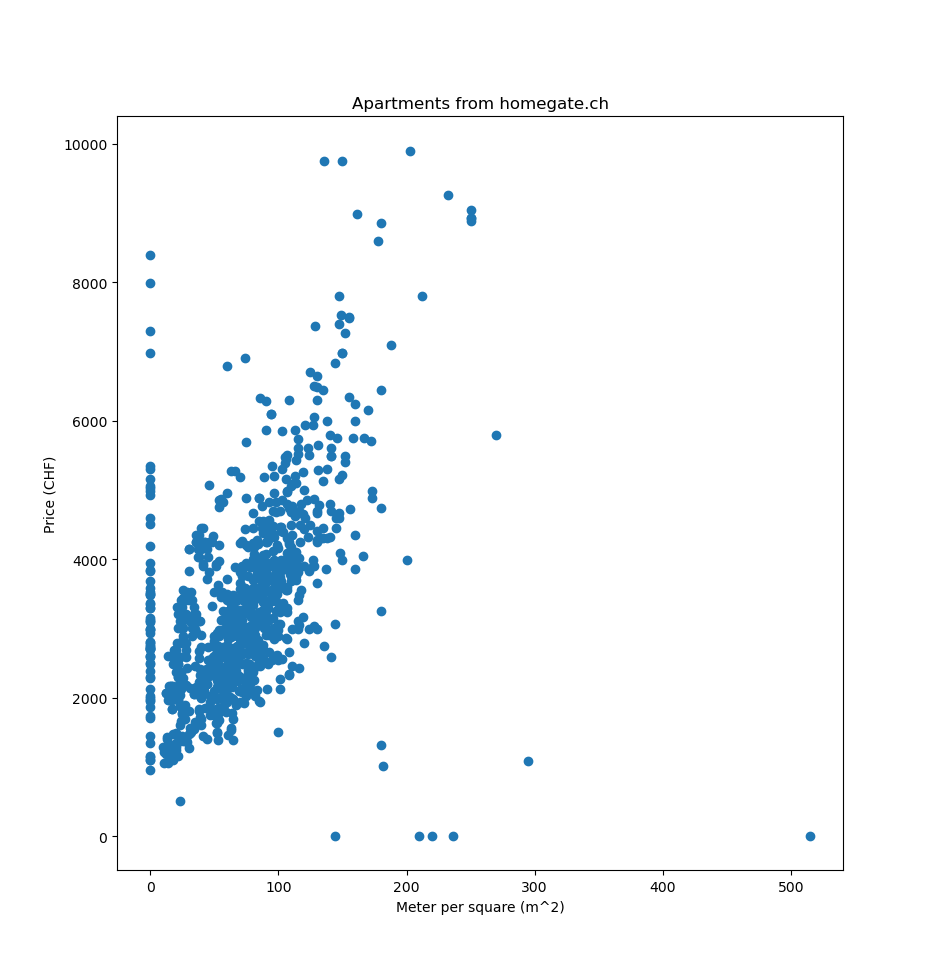
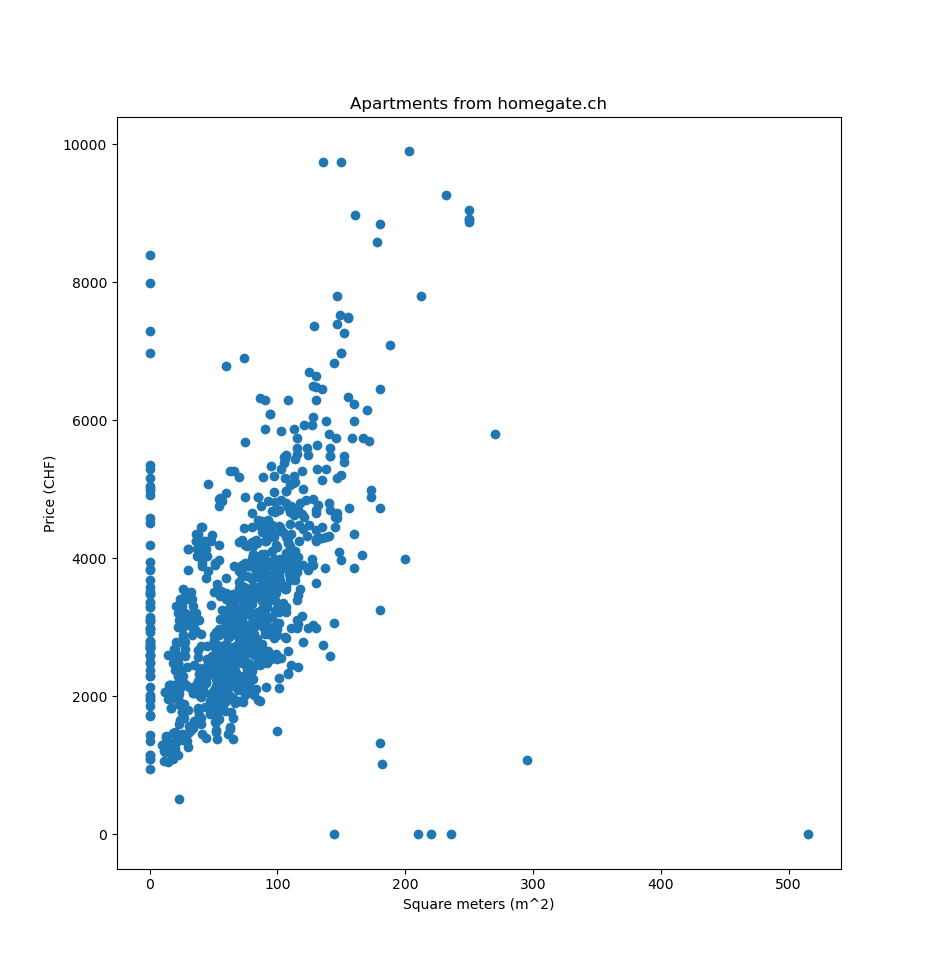
New

diff --git a/webscrape.py b/webscrape.py
@@ -2,7 +2,6 @@ import requests
 from time import sleep
 from bs4 import BeautifulSoup
 from csv import writer
-
 from geopy.geocoders import Nominatim
 from geopy import distance
 
@@ -71,21 +70,9 @@ class WebScrape:
 
         return int(price)
 
-    def get_distance(self, address):
-        geolocator = Nominatim(user_agent="myapp")
-
-        target = geolocator.geocode(address)
-        destination = geolocator.geocode("Rämistrasse 101 8092 Zurich")
-
-        gps_targ = (target.latitude, target.longitude)
-        gps_dest = (destination.latitude, destination.longitude)
-
-        dist = distance.geodesic(gps_dest, gps_targ).km
-        return round(dist, 2)
-
-    def get_data(self, start_page=1, end_page=51, timeout=2, path="data.csv", show=None):
-        data = [
-            ["price", "rooms", "meters", "address", "distance"]
+    def write_data(self, start_page=1, end_page=51, timeout=2, path="data.csv", show=None):
+        self.data = [
+            ["price", "rooms", "meters", "address"]
         ]
 
         for page in range(start_page, end_page):
@@ -98,21 +85,43 @@ class WebScrape:
                 rooms, meters = self.get_space(info)
                 address = info.find("address", attrs={"translate": "no"}).get_text()
                 
-                if address == "Michale-maggistr 10, 8046 Zürich":
-                    address = "Michael-Maggi-Strasse 10, 8046 Zürich"
-
-                distance = self.get_distance(address)
-
-                sleep(3)
-
-                t = [price, rooms, meters, address, distance]
-                data.append(t)
+                t = [price, rooms, meters, address]
+                self.data.append(t)
 
                 if show == True:
                     print(t)
 
             sleep(timeout)
 
+        with open(path, mode="w", newline="") as file:
+            w = writer(file)
+            w.writerows(self.data)
+
+        print(f"CSV file '{path}' created successfully")
+
+    def get_distance(self, address):
+        geolocator = Nominatim(user_agent="myapp")
+
+        target = geolocator.geocode(address)
+        destination = geolocator.geocode("Rämistrasse 101 8092 Zurich") # eth address
+
+        gps_targ = (target.latitude, target.longitude)
+        gps_dest = (destination.latitude, destination.longitude)
+
+        dist = distance.geodesic(gps_dest, gps_targ).km
+        return round(dist, 2)
+
+    def write_distances(self, addresses, path="data/distances.csv", timeout=7, show=True):
+        distances = []
+        for address in addresses:
+            distance = self.get_distance(address)
+            distances.append(distance)
+
+            if show == True:
+                print(address, distance)
+
+            sleep(timeout)
+        
         with open(path, mode="w", newline="") as file:
             w = writer(file)
             w.writerows(data)

diff --git a/main.py b/main.py
@@ -7,25 +7,30 @@ import matplotlib.pyplot as plt
 import webscrape
 
 
-# filename = "data/homegate.csv"
-filename = "data/d.csv"
+filename = "data/homegate.csv"
 
 if not path.isfile(filename):
     w = webscrape.WebScrape(None, None)
-    w.get_data(start_page=1, end_page=51, timeout=7, path=filename, show=True)
+    w.write_data(start_page=1, end_page=51, timeout=7, path=filename, show=True)
 
 prices = pd.read_csv(filename, usecols=["price"]).values
 rooms = pd.read_csv(filename, usecols=["rooms"]).values
 meters = pd.read_csv(filename, usecols=["meters"]).values
 addresses = pd.read_csv(filename, usecols=["address"]).values
 
+dist_file = "data/distances.csv"
+
+# if not path.isfile(dist_file):
+#     w = webscrape.WebScrape(None, None)
+#     w.write_distances(addresses, path=dist_file, timeout=8, show=True)
+
+
 def show_graph():
     plt.title("Apartments from homegate.ch")
-    plt.xlabel("Meter per square (m^2)")
+    plt.xlabel("Square meters (m^2)")
     plt.ylabel("Price (CHF)")
 
     plt.scatter(meters, prices)
     plt.show()
 
-def assign_score(p, r, m, d):
-    return p - r - m + d 
+show_graph()
